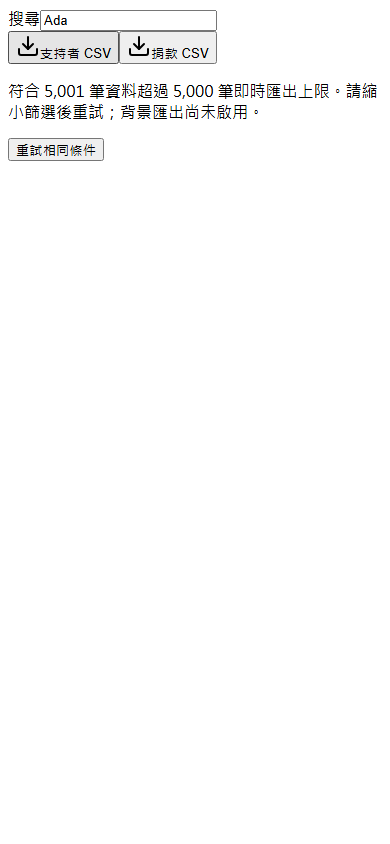
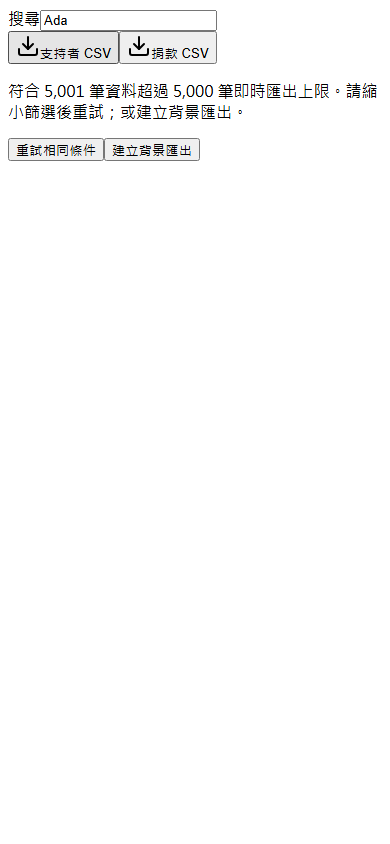
fix: gate background exports and verify release SQL checksums

Changed region(s): [[0.2769, 0.1232, 0.6462, 0.1848]]

diff --git a/src/lib/crm/exportJobs.http.server.test.ts b/src/lib/crm/exportJobs.http.server.test.ts
@@ -63,7 +63,11 @@ test("job creation validates body and role before writing", async () => {
       return { data: { id, kind: "donations", total: 1, status: "pending" }, error: null };
     },
   } as unknown as SupabaseClient;
-  const handlers = createCrmExportJobHandlers({ client, requireTreasurer: async () => actor });
+  const handlers = createCrmExportJobHandlers({
+    client,
+    requireTreasurer: async () => actor,
+    isEnabled: () => true,
+  });
   const invalid = await handlers.create(
     new Request("https://example.invalid/api/admin/exports/jobs", {
       method: "POST",
@@ -82,4 +86,32 @@ test("job creation validates body and role before writing", async () => {
   );
   expect(accepted.status).toBe(201);
   expect(writes).toBe(1);
+});
+
+test("disabled background worker rejects creation before any RPC", async () => {
+  let calls = 0;
+  const client = {
+    rpc: async () => {
+      calls++;
+      return { data: { id, status: "pending" }, error: null };
+    },
+  } as unknown as SupabaseClient;
+  const handlers = createCrmExportJobHandlers({
+    client,
+    requireTreasurer: async () => actor,
+    isEnabled: () => false,
+  });
+  const response = await handlers.create(
+    new Request("https://example.invalid/api/admin/exports/jobs", {
+      method: "POST",
+      headers: { "content-type": "application/json" },
+      body: JSON.stringify({ kind: "supporters", filters: {} }),
+    }),
+  );
+  expect(response.status).toBe(503);
+  expect(calls).toBe(0);
+  expect(await response.json()).toEqual({
+    error: "Background exports are temporarily unavailable",
+    code: "export_unavailable",
+  });
 });

diff --git a/src/lib/crm/exportJobs.http.server.ts b/src/lib/crm/exportJobs.http.server.ts
@@ -18,6 +18,7 @@ const requestSchema = z.object({
 
 type Dependencies = {
   client: SupabaseClient;
+  isEnabled?: () => boolean;
   requireTreasurer(request: Request): Promise<AdminUser>;
 };
 
@@ -40,12 +41,21 @@ async function guarded(operation: () => Promise<Response>) {
   }
 }
 
-export function createCrmExportJobHandlers({ client, requireTreasurer }: Dependencies) {
+export function createCrmExportJobHandlers({
+  client,
+  requireTreasurer,
+  isEnabled = () => false,
+}: Dependencies) {
   return {
     create(request: Request) {
       return guarded(async () => {
         const actor = await requireTreasurer(request);
         const body = requestSchema.parse(await readAdminJson(request));
+        if (!isEnabled())
+          return json(
+            { error: "Background exports are temporarily unavailable", code: "export_unavailable" },
+            503,
+          );
         const job = await enqueueCrmExportJob(client, actor.authUserId, body.kind, body.filters);
         return json(job, 201);
       });

diff --git a/src/lib/operations/migrationManifest.test.ts b/src/lib/operations/migrationManifest.test.ts
@@ -1,0 +1,25 @@
+import { expect, test } from "bun:test";
+import { createHash } from "node:crypto";
+import { readFileSync } from "node:fs";
+import { join } from "node:path";
+
+test("reviewed migration manifest checksums match canonical LF SQL", () => {
+  const manifest = readFileSync(
+    join(process.cwd(), "docs/evidence/audit-remediation-20260927/migration-manifest.csv"),
+    "utf8",
+  )
+    .trim()
+    .split(/\r?\n/);
+  const mismatches: string[] = [];
+  for (const row of manifest.slice(1)) {
+    const [, file, expected] = row.split(",");
+    const sql = readFileSync(join(process.cwd(), "supabase/migrations", file), "utf8").replace(
+      /\r\n/g,
+      "\n",
+    );
+    const actual = createHash("sha256").update(sql).digest("hex");
+    if (expected !== actual)
+      mismatches.push(file + ": expected " + expected + "; actual " + actual);
+  }
+  expect(mismatches).toEqual([]);
+});

diff --git a/src/lib/paymentPublicConfig/instructions.database.test.ts b/src/lib/paymentPublicConfig/instructions.database.test.ts
@@ -46,7 +46,9 @@ describe.skipIf(!url)("payment instruction snapshots on isolated database", () =
       await db`insert into public.sponsorship_pledge
         (id,supporter_id,monthly_tier,amount_cents,language,status)
         values (${pledgeId}::uuid,${supporterId}::uuid,'300',30000,'zh-HK','pending_payment')`;
-      await db`update public.payment_public_config set published_by = ${actorId}::uuid where id = ${configId}::uuid`;
+      // Establish invalid instructions explicitly; a prior sandbox run may have valid details.
+      await db`update public.payment_public_config set details = '{}'::jsonb,
+        published_by = ${actorId}::uuid where id = ${configId}::uuid`;
       await expectSqlState(
         db`select public.set_checkout_method_approval_with_audit(
         ${actorAuthId}::uuid,'fps','donation',${configId}::uuid,${original.version},true)`,

diff --git a/src/routeTree.gen.ts b/src/routeTree.gen.ts
@@ -5980,3 +5980,13 @@ const rootRouteChildren: RootRouteChildren = {
 export const routeTree = rootRouteImport
   ._addFileChildren(rootRouteChildren)
   ._addFileTypes<FileRouteTypes>()
+
+import type { getRouter } from './router.tsx'
+import type { startInstance } from './start.ts'
+declare module '@tanstack/react-start' {
+  interface Register {
+    ssr: true
+    router: Awaited<ReturnType<typeof getRouter>>
+    config: Awaited<ReturnType<typeof startInstance.getOptions>>
+  }
+}

diff --git a/src/routes/api/admin/exports/jobs.ts b/src/routes/api/admin/exports/jobs.ts
@@ -10,6 +10,7 @@ export const Route = createFileRoute("/api/admin/exports/jobs")({
         const client = createSupabaseServiceClient();
         return createCrmExportJobHandlers({
           client,
+          isEnabled: () => Boolean(process.env.CRON_SECRET?.trim()),
           requireTreasurer: (input) => requireAdmin(input, ["treasurer", "admin"], client),
         }).create(request);
       },

diff --git a/docs/evidence/audit-remediation-20260927/sequential-merge-148-20260929.md b/docs/evidence/audit-remediation-20260927/sequential-merge-148-20260929.md
@@ -1,0 +1,40 @@
+# PR #148 sequential verification — 2026-09-29
+
+Predecessor #147 34cff531 was integrated as b8fe9a2. Migration/runbook conflicts retain both slices; the route tree was regenerated from the combined routes and then by the actual build. No historical audit report was rewritten.
+
+## Fixes reproduced during preparation
+
+Background job creation returned 201 and wrote a job even when its worker was unavailable. New direct API regression failed (2 pass / 1 fail), then passed (3 pass / 0 fail) after a default-off injected availability gate. The production route only permits new jobs when CRON_SECRET is configured. Status, download, cancel and cleanup remain independent. Vercel production environment-name listing exit 0 confirms CRON_SECRET absent; no value was read or changed. New jobs therefore return 503 before any RPC. No payment/email worker was enabled.
+
+The payment-instructions DB test also assumed existing shared fixture details were incomplete. A focused rerun failed expecting SQLSTATE 23514 after valid sandbox details already existed. The test now explicitly sets invalid details before that negative assertion and restores the original row in its existing cleanup. Focused two-file rerun: 2 pass / 0 fail, 21 assertions, 2.46 seconds. No assertion was removed.
+
+## Executed current gates
+
+- bun test --isolate initial integrated run: exit 1, 2886 pass / 86 skip / 2 DB timeout failures at the default 5 seconds.
+- After fixture correction, another default-timeout run: exit 1, 2842 pass / 127 skip / 3 failures. Local Auth logged HTTP 504 context deadline exceeded during synthetic role creation; a later isolated RLS rerun passed 5/5, exit 0.
+- bun test --isolate --timeout 30000 with CHECKOUT_POLICY_TEST_DATABASE_URL loopback 57322 and SUPABASE_LOCAL_URL loopback 52321: exit 0; 2888 pass / 86 skip / 0 fail, 8872 assertions, 490 files, 47.68 seconds. Skips remain environment-gated and are not passes.
+- bun run typecheck: exit 0 before build; final generated-route typecheck recorded separately below.
+- bun run lint: initial 11 formatting errors, corrected with Prettier on named files; rerun exit 0, 52 warnings and no errors.
+- bun run build with loopback 54329 and placeholder keys: exit 0. Actual build regenerated the SSR Register declaration; the generated file is included.
+- node scripts/verify-export-bar.mjs and node scripts/verify-background-export.mjs on synthetic loopback 56546 at 390x844: both exit 0. Immediate 413/403/retry/in-flight filter race; background creation/reload/progress/download/cancel/revocation pass. No real export or production role identity used.
+
+## Exact migration and isolated DB evidence
+
+Source 20260927090000_crm_private_export_jobs.sql, committed LF SHA256 6665fcf0ef6ec9d783bca79ad7cd9769110a8a5c9a04f15c3a7a8463d4ade162. Applied as a single transaction only to local audit_pr135_20260929 in supabase_db_hkscda-audit-integration-fresh; exit 0. This is the production-schema-only clone with synthetic data, not a production data copy.
+
+CRM_TEST_ALLOW_LOCAL_FIXTURES=1 CRM_TEST_DATABASE_URL=postgresql://postgres:postgres@127.0.0.1:52322/audit_pr135_20260929 bun test src/lib/crm/exportJobs.database.test.ts: exit 0, 3 pass / 0 fail, 145 assertions, 3.09 seconds. Includes 5001 supporters and 5001 donations without truncation, frozen IDs, revoked-role/other-actor denial, expiry, audit, RLS/grants, two-connection claim exclusivity and cancellation fencing. Synthetic rows rolled back/cleaned by exact IDs.
+
+scripts/test-crm-export-service-role.sql via local psql ON_ERROR_STOP: exit 0. Actual SET LOCAL ROLE service_role exercises enqueue, claim, page, append, actor-bound download, wrong actor denial, cancel and cleanup; all synthetic changes rolled back.
+
+Live read-only preflight: ledger 86; job/artifact/helper and nine public commands absent; existing private.crm_matching_supporters(jsonb), private.crm_supporter_summary(uuid), receipt/supporter/donation/admin/audit dependencies present. Checkout false. Existing restricted DPAPI backup is the recovery artifact; no full restore drill claimed. The migration creates two RLS-protected tables and restricted RPCs, contains no production row backfill or job creation, and changes no existing payment or notification flow. Production application is not yet executed in this record.
+
+Rollback: stop new job intake, preserve private job/artifact schema while rows remain, keep expiry/download denial and an approved cleanup path. Do not drop artifacts with active jobs. CRON_SECRET remains absent; setting this shared secret would also affect other job routes and requires the existing operational approvals. The project already deploys hourly schedules; direct subscription-tier verification and real-identity UAT are not-run. No paid plan or provider configuration was changed.
+
+## Predecessor release evidence
+
+#146 merged 87e4aa1acfab082bba1a6c97260d74ca5ebd96b5 after pre-merge CI 36589857892 and preceding #145 main CI 36590275015 passed all five jobs. Deployment dpl_6Prp3GNMebKtXpX17ZvYvxjrEjwq READY; #146 main CI 36591612497 passed all five jobs.
+
+#147 merged 82c9247f28b4d1dcbd73261c33f2233143540340 after corrected-head CI 36591039290 passed all five jobs. Deployment dpl_Bdn13mgYgVNsCVjWqLyML73RM4ta READY; main CI 36593182986 pending at this observation.
+
+Final generated-route bun run typecheck: exit 0. A checksum regression then detected two stale manifest entries (CRM exports and donation recovery); red exit 1, corrected only the metadata to canonical LF Git SQL bytes. SQL and live ledger are unchanged. The donation hash now matches its earlier applied proof, 7368ea1052220be96c71b26f9003f26e259ea51a69f83dca031a79152d8913d3. Older narrative source hashes are historical observations superseded by this exact-source record.
+Checksum regression green: bun test src/lib/operations/migrationManifest.test.ts exit 0 (1 pass); targeted ESLint exit 0. Full suite count above precedes this metadata-only regression addition.
